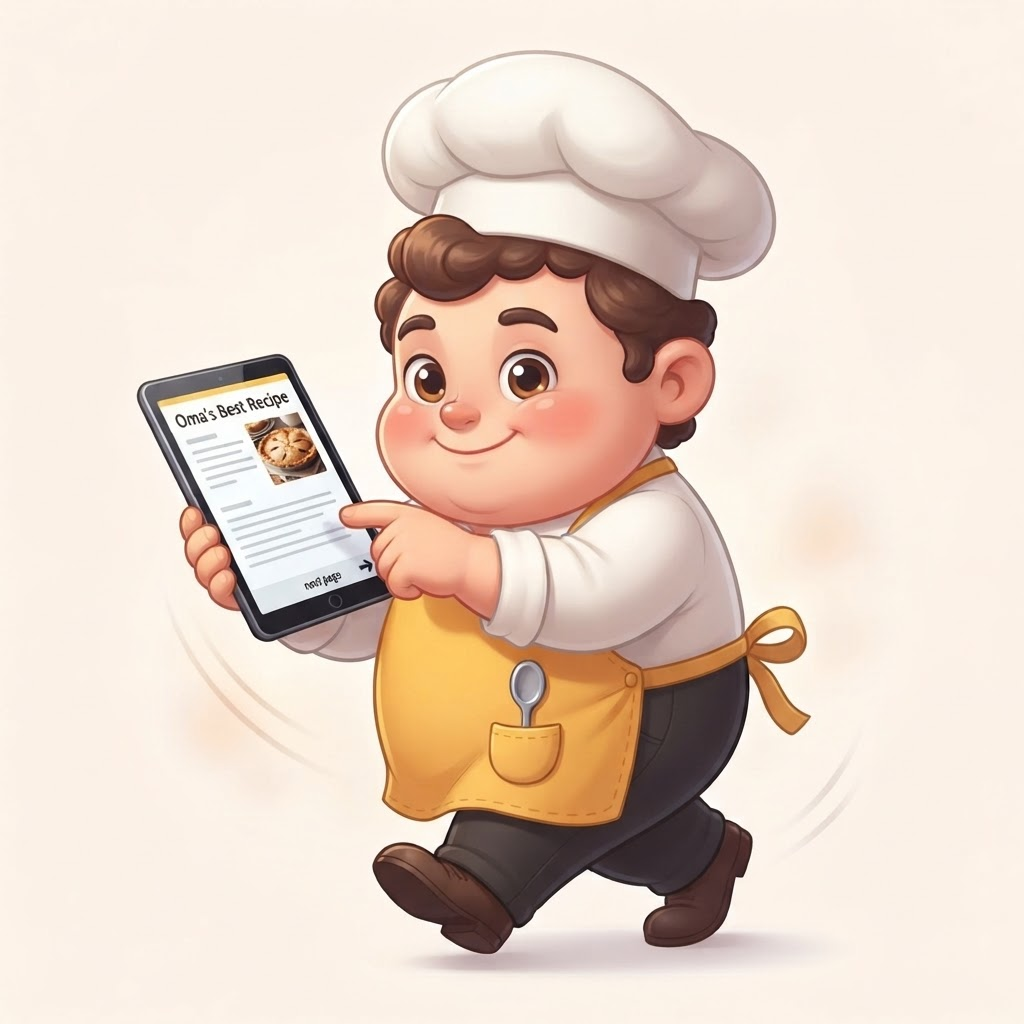
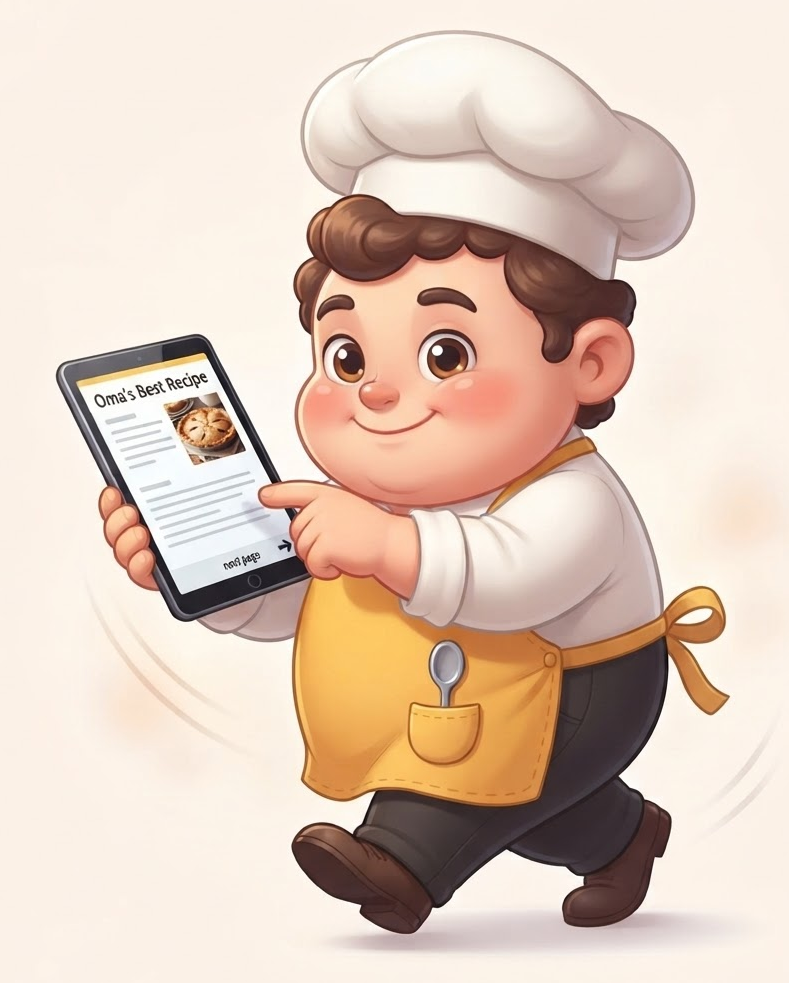
Feature: Brutzel im Koch-Modus als groessere Vollfigur, echte Profi-Kochtipps statt generischer Erinnerungen
- BrutzelAvatar bekommt eine 'full'-Variante (ganze Figur statt nur Kopf-
  Ausschnitt), genutzt im Kochtipp-Kaertchen mit 88px statt bisher 52px
  Kopf-Icon. assets/brutzel-full.png enger zugeschnitten (weniger
  Weissraum drumherum)
- BRUTZEL_TIPS jetzt fuer alle 15 Technik-Begriffe (vorher nur 3) mit
  echten, konkreten Profi-Kuechentipps statt vager Andeutungen
- GENERIC_BRUTZEL_TIPS (fuer Schritte ohne Technik-Tag) komplett neu
  formuliert - vorher beilaeufige Erinnerungen ('Schluck Wasser trinken'),
  jetzt echte Mise-en-Place/Kuechenpraxis-Hinweise wie von einem
  erfahrenen Koch

diff --git a/src/components/SingleRecipeCookView.tsx b/src/components/SingleRecipeCookView.tsx
@@ -62,22 +62,36 @@ function getEffectiveTimerSeconds(step: { timer_seconds?: number | null; text: s
 }
 
 const BRUTZEL_TIPS: Record<string, string> = {
-  mehlieren: 'Erst kurz vorm Braten mehlieren, sonst wird die Kruste matschig statt knusprig.',
-  zwiebel_schneiden: 'Gleichmäßige Ringe/Würfel braten gleichmäßiger durch.',
-  koecheln_lassen: 'Nicht sprudelnd kochen lassen – nur leise Bläschen, sonst wird die Suppe trüb.',
+  mehlieren: 'Erst unmittelbar vorm Braten mehlieren, nie vorher liegen lassen – sonst zieht das Mehl Feuchtigkeit und die Kruste wird matschig statt knusprig.',
+  zwiebel_schneiden: 'Wurzelansatz beim Schneiden dran lassen, hält die Schichten zusammen – gibt gleichmäßigere Stücke und schont die Augen, da weniger Zellsaft austritt.',
+  koecheln_lassen: 'Nur leise Bläschen, nie sprudelnd kochen – zu starke Hitze macht Brühen trüb und lässt Fleisch zäh statt zart werden.',
+  apfel_schaelen: 'Schale möglichst dünn abschälen, direkt darunter sitzen die meisten Aromastoffe.',
+  filetieren: 'Immer gegen die Gräten, nie mit ihnen schneiden – das Messer flach halten und in einem durchgehenden Zug führen statt zu sägen.',
+  germteig_gehen_lassen: 'Zugedeckt an einem warmen, zugfreien Ort gehen lassen – über 40°C stirbt die Hefe ab, das Ergebnis bleibt dann flach.',
+  knoblauch_schaelen: 'Zehe mit der flachen Klinge andrücken, dann löst sich die Schale von selbst – schneller und schont die Finger.',
+  palatschinken_wenden: 'Erst wenden, wenn sich der Rand von der Pfanne löst und die Oberfläche matt wird – zu früh gewendet reißt der Teig.',
+  risotto_ruehren: 'Brühe nur löffelweise zugeben und erst nachschütten, wenn die vorherige Portion aufgesogen ist – so wird die Stärke schonend freigesetzt, das macht die Cremigkeit.',
+  ruehrteig_unterheben: 'Mit dem Schneebesen oder Teigschaber von unten nach oben heben, nicht rühren – sonst geht die eingeschlagene Luft wieder verloren.',
+  schnitzel_klopfen: 'Zwischen zwei Lagen Frischhaltefolie klopfen, gleichmäßig von innen nach außen – schützt die Fasern und verhindert, dass das Fleisch ausfranst.',
+  schwarte_einschneiden: 'Nur die Schwarte einschneiden, nicht bis ins Fleisch – sonst läuft beim Braten der Saft aus statt die Kruste aufzuplatzen.',
+  teig_kneten: 'Mindestens 8–10 Minuten kräftig kneten, bis er sich glatt und elastisch anfühlt – erst dann hat sich genug Gluten gebildet, damit der Teig aufgeht.',
+  eiweiss_schlagen: 'Schüssel und Rührbesen müssen absolut fettfrei sein, sonst schlägt das Eiweiß nicht steif – schon eine Spur Eigelb reicht, um es zu verhindern.',
+  strudelteig_ausziehen: 'Von der Mitte nach außen ziehen, mit dem Handrücken statt den Fingerspitzen – so reißt der Teig seltener und wird gleichmäßig dünn.',
 };
 
 // Generische Tipps fuer Schritte OHNE technique_tag (das betrifft aktuell
 // rund 70% aller Schritte in den Starter-Rezepten) - Brutzel hatte bisher
-// nur bei rund einem Viertel der Schritte ueberhaupt etwas zu sagen. Wird
-// deterministisch nach Schrittnummer gewaehlt (kein Zufall -> kein
-// Flackern bei Re-Renders desselben Schritts).
+// nur bei rund einem Viertel der Schritte ueberhaupt etwas zu sagen.
+// Bewusst als ECHTE Kuechen-Praxis-Tipps formuliert (Mise en Place,
+// Profi-Kueche), nicht als beilaeufige Erinnerungen. Wird deterministisch
+// nach Schrittnummer gewaehlt (kein Zufall -> kein Flackern bei
+// Re-Renders desselben Schritts).
 const GENERIC_BRUTZEL_TIPS: string[] = [
-  'Lies dir den Schritt einmal ganz durch, bevor du loslegst – dann läuft\'s runder.',
-  'Alle Zutaten für diesen Schritt schon bereitgestellt? Spart unnötiges Suchen.',
-  'Kein Stress – du kannst jederzeit einen Schritt zurückgehen, falls was unklar war.',
-  'Falls ein Timer läuft: ruhig weiterlesen, Brutzel erinnert dich rechtzeitig.',
-  'Guter Moment für einen Schluck Wasser, bevor es weitergeht.',
+  'Mise en Place: alle Zutaten für diesen Schritt abgewogen und griffbereit, bevor du anfängst – das ist der Unterschied zwischen Hektik und Ruhe in der Küche.',
+  'Schneidebrett und Messer zwischendurch sauber wischen, besonders nach rohem Fleisch oder Fisch – Profis trennen strikt zwischen den Arbeitsschritten.',
+  'Lies den ganzen Schritt einmal durch, bevor du loslegst – wer erst mittendrin merkt, was als Nächstes kommt, verliert Zeit und Timing.',
+  'Immer erst die Pfanne oder den Topf auf Temperatur bringen, dann erst die Zutaten zugeben – kalt angesetzt ziehen viele Zutaten Flüssigkeit statt zu bräunen.',
+  'Mit der Nase mitkochen: Röstaromen, die zu bitter riechen, kündigen sich meist einige Sekunden vorher an – dann ist Reduzieren der Hitze schon zu spät.',
 ];
 
 interface TechniqueVideoInfo {
@@ -468,7 +482,7 @@ export default function SingleRecipeCookView({ recipeId, isActive, onTitleLoaded
       )}
 
       <View style={[styles.brutzelCard, { backgroundColor: colors.card, borderRadius: radius.md }]}>
-        <BrutzelAvatar size={52} />
+        <BrutzelAvatar size={88} variant="full" />
         <View style={{ flex: 1 }}>
           <Text style={[styles.brutzelText, { color: colors.muted }]}>
             <Text style={{ fontWeight: '700', color: gradient[0] }}>Brutzel: </Text>

diff --git a/src/components/BrutzelAvatar.tsx b/src/components/BrutzelAvatar.tsx
@@ -3,16 +3,32 @@ import { Image, StyleSheet } from 'react-native';
 
 interface Props {
   size?: number;
+  // 'head': kleiner, runder Kopf-Ausschnitt (Standard, fuer knappe
+  // Kontext-Hinweise). 'full': ganze Figur, nicht rund zugeschnitten - fuer
+  // den Kochtipp im Koch-Modus, der jetzt bewusst prominenter/groesser
+  // gezeigt wird statt nur des kleinen Kopfes.
+  variant?: 'head' | 'full';
 }
 
+const FULL_ASPECT_RATIO = 789 / 983; // Breite/Hoehe von assets/brutzel-full.png
+
 /**
- * Brutzels Kopf - echtes Illustrations-Asset (assets/brutzel-avatar.png,
- * aus der finalen Maskottchen-Grafik zugeschnitten), ersetzt die fruehere
- * programmatische SVG-Annaeherung. Nur der Kopf, keine Vollfigur - passend
- * fuer kleine Kontext-Hinweise wie Kochtipps im Koch-Modus (siehe Regel
- * "Vollfigur nur bei grossen Momenten").
+ * Brutzel - echte Illustrations-Assets (assets/brutzel-avatar.png fuer den
+ * Kopf, assets/brutzel-full.png fuer die ganze Figur), ersetzen die
+ * fruehere programmatische SVG-Annaeherung.
  */
-export default function BrutzelAvatar({ size = 28 }: Props) {
+export default function BrutzelAvatar({ size = 28, variant = 'head' }: Props) {
+  if (variant === 'full') {
+    const height = size;
+    const width = Math.round(height * FULL_ASPECT_RATIO);
+    return (
+      <Image
+        source={require('../../assets/brutzel-full.png')}
+        style={{ width, height }}
+        resizeMode="contain"
+      />
+    );
+  }
   return (
     <Image
       source={require('../../assets/brutzel-avatar.png')}
